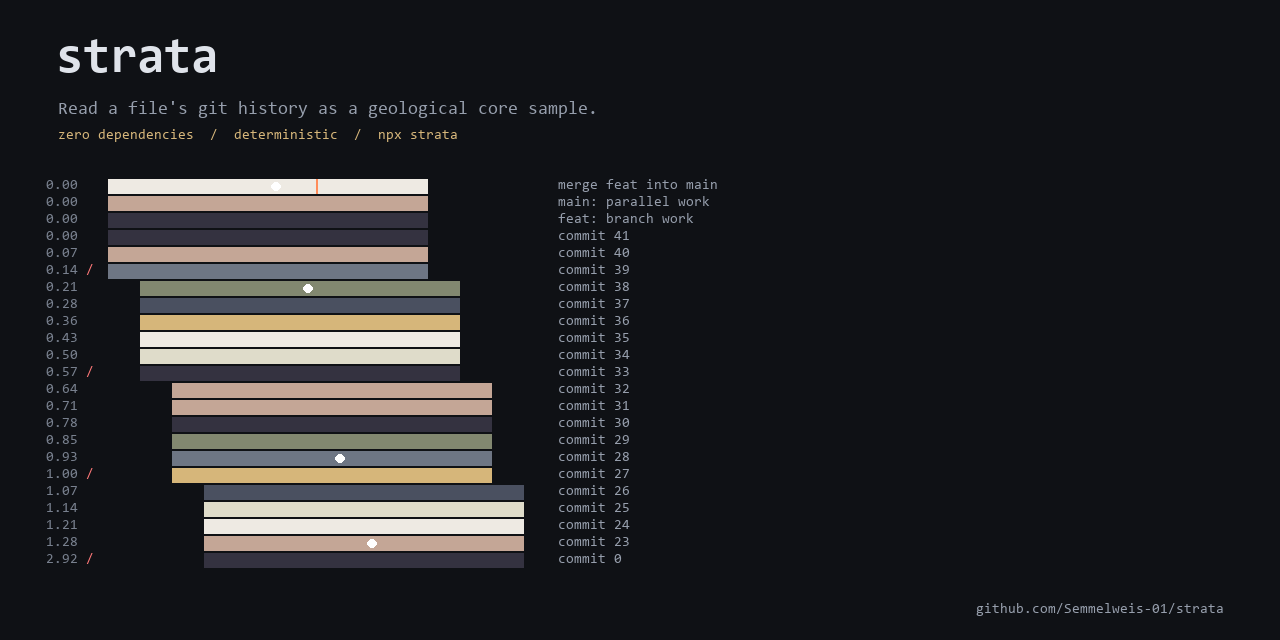
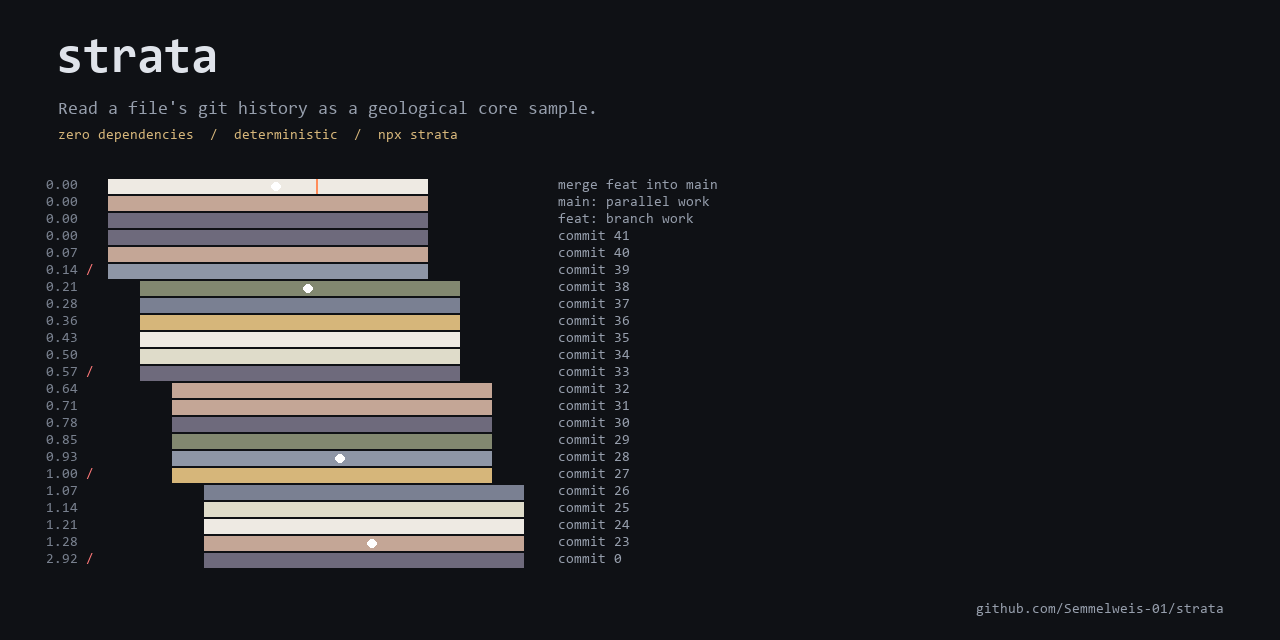
fix: no rock may vanish into a dark terminal
obsidian sat at 1.18:1 against a #0f1115 background and basalt at 1.95:1, so 30% of a typical core was effectively invisible. Every rock now clears 3.6:1, obsidian stays the darkest and marble the lightest. scripts/social.py reads the palette from palette.mjs instead of keeping a second copy that had already drifted.

diff --git a/scripts/social.py b/scripts/social.py
@@ -5,11 +5,17 @@ from PIL import Image, ImageDraw, ImageFont
 W, H = 1280, 640
 BG=(15,17,21); FG=(223,227,234); DIM=(150,158,172); ACCENT=(214,182,122); FAULTC=(255,120,120)
 
-ROCK_RGB = {
- "sandstone":(214,182,122),"shale":(110,118,132),"limestone":(223,220,202),
- "basalt":(74,80,96),"granite":(196,166,150),"marble":(238,234,227),
- "chert":(130,136,112),"obsidian":(52,50,64),
-}
+# read the palette from the source of truth instead of duplicating it
+HERE = os.path.dirname(os.path.abspath(__file__))
+ROOT = os.path.dirname(HERE)
+PALETTE = subprocess.run(
+    ["node", "--input-type=module", "-e",
+     "import('./src/palette.mjs').then(m => console.log(JSON.stringify("
+     "Object.fromEntries(Object.entries(m.ROCKS).map(([k,v]) => [k, v.rgb])))))"],
+    cwd=ROOT, capture_output=True, text=True, encoding="utf-8")
+if PALETTE.returncode != 0:
+    raise SystemExit("palette read failed: " + PALETTE.stderr.strip())
+ROCK_RGB = {k: tuple(v) for k, v in json.loads(PALETTE.stdout).items()}
 
 env = {**os.environ, "WT_SESSION": "probe"}
 os.chdir(r"C:\\Users\\yukino\\Documents\\deepseek-harness\\default-workspace\\demo-repo")
